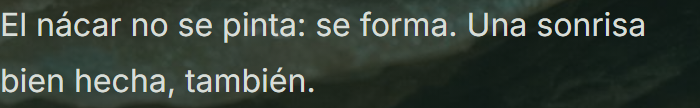
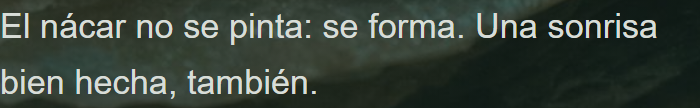
Documenta el despliegue y la verificacion en vivo de NACAR v2.4
qa/PRODUCCION_v2.4.md: el CSS servido es byte a byte el del build local
(sha256 eba7d3d9...), el manifiesto no cambio (la pelicula no se toco),
QA remota aprobada a la primera con failures: [], y el capitulo 03 del modo
quieto a 1440x900 medido en produccion — h2 6.26:1 y parrafo 6.79:1 donde
R1e midio 2.62 y 4.18. Recortes de contraste de qa/v2.4/contrast/ regenerados
contra produccion.

docs/misiones/C28.report.md: diagnostico, arreglo, tabla antes/despues de las
9 laminas por los 2 anchos, por que la puerta no veia el fallo y la prueba de
que ahora si lo ve, el porque del min-width 821px en la nav, y el arranque en
frio (3,664 ms) que R1e no pudo reproducir sin desplegar.

diff --git a/docs/misiones/C28.report.md b/docs/misiones/C28.report.md
@@ -1,0 +1,223 @@
+# C28 — NÁCAR v2.4: contraste AA en el modo quieto, nav táctil en escritorio
+
+Fecha: 2026-09-15
+Rama de trabajo: `v2.4/contraste-quieto-2026-09-15` (`3200fde`)
+Publicado: merge `c86ca8f` en `main` · deployment `wwrumyauibbuzqdpakyisqlj` (`finished`, 25 s)
+Tag de respaldo: `respaldo-main-antes-v2.4-2026-09-15` → `d21a4e2`
+Antecedente: `qa/R1/REVISION_R1e.md` — **APROBADA CON RESERVAS, 8.4 / 10**, con **un solo
+bloqueante** para el 8.5
+
+## Resultado
+
+El bloqueante está cerrado y medido en producción, y la puerta que lo dejó pasar pasa de 36 medidas
+sobre un solo elemento a **108 sobre los tres textos que se apoyan en el scrim**. El menor de la
+nav con puntero grueso también queda cerrado, y con un enunciado correcto: el hueco no estaba
+acotado entre 1024 y 1180 px, aparecía en cualquier ancho de escritorio. La QA remota aprobó **en
+la primera pasada**, sin reintentos.
+
+## 1. El bloqueante: contraste del modo quieto
+
+### Diagnóstico
+
+El scrim del modo quieto era un degradado de **un solo eje**:
+
+```css
+html[data-motion='off'] .film-card::before{
+  background:linear-gradient(0deg,rgba(16,32,28,.9),rgba(16,32,28,.12) 70%)
+}
+```
+
+Denso abajo y casi nulo a media altura. Pero la lámina mide `min-height: 88svh` y el bloque de
+texto se apoya en el borde inferior con `padding: clamp(5rem,12vh,8rem)`: con un `h2` de 92 px en
+dos líneas, **el titular cae entre el 40 % y el 60 % de la altura**, donde ese degradado ya vale
+0.3 de alfa. Sobre `still-03.jpg` —la curva de porcelana más clara del set— eso daba texto
+`#F6F3EE` sobre crema.
+
+### Arreglo
+
+Dos ejes, con la misma gramática que el scrim del modo animado (`.film__scrim`, que ya es una
+cortina `90deg`), densificada como pide la doctrina para la versión estática:
+
+```css
+/* escritorio */
+background:
+  linear-gradient(90deg,rgba(16,32,28,.62) 0%,rgba(16,32,28,.50) 38%,rgba(16,32,28,.16) 66%,rgba(16,32,28,0) 88%),
+  linear-gradient(0deg,rgba(16,32,28,.74) 0%,rgba(16,32,28,.32) 48%,rgba(16,32,28,.08) 78%,rgba(16,32,28,0) 100%);
+
+/* móvil, bajo la MISMA consulta de medios que las láminas mobile-* */
+background:
+  linear-gradient(0deg,rgba(16,32,28,.84) 0%,rgba(16,32,28,.62) 42%,rgba(16,32,28,.26) 72%,rgba(16,32,28,.05) 96%),
+  linear-gradient(90deg,rgba(16,32,28,.24) 0%,rgba(16,32,28,.10) 55%,rgba(16,32,28,0) 90%);
+```
+
+Tres decisiones y su motivo:
+
+1. **Cortina lateral en escritorio, eje vertical en móvil.** A 1440 el texto ocupa la franja
+   izquierda (el `h2` va a `max-width: 12ch` y el párrafo a 42ch: juntos no pasan del 43 % del
+   ancho), así que la cortina densifica sólo donde hay texto y **se apaga antes del 88 % del
+   ancho** para que la lámina siga respirando a la derecha. Con el recorte vertical del set móvil el
+   texto ocupa casi todo el ancho y ahí la cortina no serviría: manda el eje vertical.
+2. **La variante móvil va bajo la misma consulta de medios que las láminas `mobile-*`**
+   (`(max-width:820px),(pointer:coarse) and (max-width:1180px)`), no bajo un breakpoint propio, para
+   que scrim e imagen no puedan desincronizarse nunca.
+3. **Ni blanco ni negro puros**: todo es `--petroleo` (#10201C) con alfa, como manda `DIRECCION.md`.
+
+También se llevó el scrim animado de ≤ 640 px de dos paradas a cuatro
+(`.90 → .62 34% → .24 66% → .04 90%`): ahí el `h2` medía 3.95:1, por encima del mínimo de texto
+grande pero por debajo del 4.5 al que apunta el encargo.
+
+### Antes / después — las 9 láminas × 2 anchos en modo quieto
+
+Instrumento: `medirContrastes` de `scripts/qa.mjs`, densidad ×2, estado real (sin forzar
+`visibility`, `opacity` ni `transform`), texto contra el fondo que hay detrás de esos mismos
+píxeles. «Antes» medido sobre el build de la v2.3; «después», contra producción.
+
+| # | Lámina | h2 390 | párrafo 390 | h2 1440 | párrafo 1440 |
+|---|---|---|---|---|---|
+| 01 | Materia | 8.48 → 10.40 | 6.57 → 7.97 | 4.97 → 8.06 | 5.27 → 7.69 |
+| 02 | Diagnóstico | 10.42 → 10.14 | 7.04 → 8.26 | 3.39 → 6.71 | 5.31 → 7.74 |
+| 03 | **Esmalte** | 4.06 → 6.27 | 7.60 → 8.84 | **2.62 → 6.26** | **4.18 → 6.79** |
+| 04 | Llegada | 6.33 → 7.62 | **4.61 → 6.46** | 8.19 → 9.77 | 7.31 → 8.87 |
+| 05 | Consulta | 6.77 → 6.05 | 6.76 → 7.67 | 5.82 → 7.19 | 5.40 → 7.52 |
+| 06 | Plan | 8.39 → 10.33 | 8.13 → 8.78 | 4.80 → 7.13 | 7.11 → 7.26 |
+| 07 | Precisión | 8.26 → 8.22 | 7.16 → 7.37 | 6.53 → 7.28 | 6.34 → 7.73 |
+| 08 | Claridad | 14.10 → 13.87 | 4.88 → 6.67 | 14.11 → 12.46 | 11.03 → 11.07 |
+| 09 | Cierre | 5.04 → 6.79 | 5.77 → 7.41 | 3.46 → 6.44 | 4.85 → 7.38 |
+
+**Mínimos**: `h2` 4.06 → **6.05** a 390 y 2.62 → **6.26** a 1440; párrafo 4.61 → **6.46** a 390 y
+4.18 → **6.79** a 1440.
+
+Honestidad sobre las bajadas: cinco celdas bajan un poco (05 y 08 a 390; 02, 07 y 08 a 1440). No es
+ruido, es el rediseño: el nuevo degradado redistribuye densidad hacia la banda del texto y deja el
+tercio superior **más limpio** que antes (`.05` al 96 % frente a `.06` plano desde el 78 %). Donde
+baja, baja desde 14.10 o desde 6.77 y sigue muy por encima del umbral; donde importaba subir,
+sube 2.4 veces.
+
+### El modo animado no empeora
+
+| Elemento | Ancho | Antes | Después |
+|---|---|---:|---:|
+| `h2` | 390×844 | 3.95 | **4.95** |
+| `h2` | 1440×900 | 5.67 | 5.67 |
+| párrafo | 390×844 | 5.22 | **6.02** |
+| párrafo | 1440×900 | 5.90 | 5.90 |
+| `.label` | los dos | 7.39–7.59 | 7.39–7.59 |
+
+**54 de 54 medidas del modo animado iguales o mejores.** Las 108 del total quedan por encima de
+**4.5 : 1**, incluido el titular, al que la norma sólo le exige 3.0 por tamaño.
+
+## 2. La puerta: de 36 medidas sobre `.label` a 108 sobre los tres textos
+
+`medirContrastes` sólo miraba `.label` — que lleva su propio fondo petróleo con
+`box-shadow: 0 0 0 .45rem` y por eso nunca baja de 7.39:1. Los dos textos que de verdad se apoyan
+en el scrim quedaban fuera de la puerta. Ahora:
+
+- Mide **etiqueta, titular y párrafo** de los 9 capítulos en **los dos modos y los dos anchos**:
+  108 medidas.
+- Corre en **pasada propia con `deviceScaleFactor: 2`**, no dentro del bucle de carga. A ×2 el
+  antialias del glifo se lee con más detalle y el número sale **más severo** que a ×1 (es la
+  densidad con la que R1e midió el 2.62). Va aparte para no tocar el DPR con el que se miden bytes,
+  CLS y LCP: esas puertas siguen exactamente como estaban.
+- Umbral **4.5 : 1** para texto normal (párrafo y etiqueta) y **3.0 : 1** para texto grande, que
+  WCAG define como ≥ 24 px; **si el `h2` computara por debajo de 24 px se le exige 4.5**, no 3.0.
+  El tamaño se lee del `getComputedStyle`, no se supone.
+- Recorta al viewport antes de capturar (un `h2` de 92 px puede desbordar la lámina y
+  `page.screenshot({ clip })` trabaja en coordenadas de viewport). En modo quieto acerca cada texto
+  con `scrollIntoViewIfNeeded`, que es lo que hace quien lee; en modo animado navega al tramo del
+  capítulo y **no toca la posición**, porque ahí la posición es el estado.
+- Guarda los 108 recortes en `qa/v2.4/contrast/`.
+
+**La puerta muerde.** No basta con que pase: la ejecuté contra el CSS de la v2.3, revirtiendo el
+arreglo con `git stash`, y falló exactamente donde R1e denunció:
+
+```
+h2      off 1440x900 cap3 2.62:1 < 3   (92px)
+parrafo off 1440x900 cap3 4.18:1 < 4.5 (18px)
+```
+
+Evidencia versionada: `qa/v2.4/puerta-contra-css-v2.3.json` (incluye las 108 medidas de esa pasada
+y los 5 perfiles de nav fallando).
+
+## 3. Nav con puntero grueso
+
+El pendiente estaba **mal enunciado** en `RUBRICA_v2.md` y en `qa/PRODUCCION_v2.3.md`: no era «entre
+1024 y 1180 px». Con `(pointer: coarse)` los cuatro enlaces medían 18 px de alto en **cualquier**
+ancho de escritorio.
+
+```css
+@media (pointer: coarse) and (min-width: 821px) {
+  .nav__enlaces a:not(.nav__wa) { min-height: 44px; display: inline-flex; align-items: center; }
+}
+```
+
+El `min-width: 821px` no es cosmético: sin él esta regla, que va **después** del bloque
+`@media (max-width: 820px)` que oculta los enlaces, les habría devuelto `display: inline-flex` y
+**los cuatro enlaces habrían reaparecido en el teléfono**. La puerta lo comprueba: a 390 y 820 con
+puntero grueso debe haber **1 solo** enlace visible.
+
+| Ancho (con `hasTouch`, `pointer: coarse`) | Enlaces visibles | Por debajo de 44 px | Fila | Overflow |
+|---|---:|---:|---:|---:|
+| 390×844 | 1 | 0 | 79 px | 0 |
+| 820×1180 | 1 | 0 | 79 px | 0 |
+| 1024×768 | 5 | **0** (antes 4 a 18 px) | 79 px | 0 |
+| 1280×800 | 5 | **0** (antes 4 a 18 px) | 79 px | 0 |
+| 1440×900 | 5 | **0** (antes 4 a 18 px) | 79 px | 0 |
+
+El alto de la fila no cambia (79 px) porque la marca y el botón de WhatsApp ya la dejaban en ≥ 44 px.
+La puerta comprueba además que `matchMedia('(pointer: coarse)')` sea `true` **en la propia página**:
+si la emulación no se aplicara, falla en vez de pasar en vacío.
+
+## 4. Documentado, no tapado
+
+`DIRECCION.md` incorpora dos secciones nuevas: la del scrim (con los números de arriba) y una de
+**limitación conocida** sobre la resolución real de la película — master 1344×768, set «desktop»
+de 1440×822 que ya es un reescalado, y ampliación **≈ ×4.1 en móvil DPR 2** / ×2.2 a 1440 DPR 2.
+Queda por escrito que la película se ve blanda en DPR 2, que eso se acepta mientras el presupuesto
+de entrada móvil vaya con ~1.5 % de margen, y que **ninguna afirmación de calidad puede apoyarse en
+mirar los WebP «a 1:1», porque 1:1 no es lo que ve nadie**.
+
+## 5. Puerta objetiva
+
+| Comando | Resultado |
+|---|---|
+| `npm run typecheck` | aprobado |
+| `npm run build` | aprobado |
+| `npm run film-check` | aprobado — máximo interno 25.365 / 25.199 < 32.33175 |
+| `npm run qa` (local) | **aprobado**, `failures: []` |
+| `QA_BASE=https://nacar.asck.tech QA_STEP_MS=600 npm run qa` | **aprobado a la primera**, `failures: []`, exit 0 |
+| `npm run qa` con el CSS de la v2.3 | **falla**, como debe: 2 contrastes bajo umbral + 3 perfiles de nav |
+
+## 6. Verificación en producción
+
+- CSS servido `assets/index-CiVCAn6w.css` con `sha256` **idéntico byte a byte** al build local.
+- `/film/manifest.json` con el mismo `sha256` que la v2.3 (`b367f185…`): **la película no se tocó**.
+  4/4 fotogramas comprobados coinciden byte a byte con el repo.
+- Capítulo 03, quieto, 1440×900: **h2 6.26:1** (29,049 px de núcleo de glifo) y **párrafo 6.79:1**
+  (8,930 px), con la tarjeta en `visibility: visible` y `opacity: 1`.
+- Entrada por tamaño real de cuerpo: 2,462,177 B móvil y 7,524,239 B escritorio.
+- CLS 0.0000 en los seis viewports, 45/45 cambios, 0 errores de consola, 0 HTTP ≥ 400, 0 respuestas
+  200 sin cuerpo, 0 px de overflow, 13/13 CTA con Tab, 9/9 con ratón.
+
+Detalle completo en `qa/PRODUCCION_v2.4.md`.
+
+## 7. Hallazgo propio: el arranque en frío sí se reproduce
+
+R1e dejó el arranque en frío «ni confirmado ni refutado» porque no podía desplegar. Al desplegar yo,
+la primera visita del proceso a 390×844 con CPU 4× y 1.6 Mbps midió **3,664 ms de LCP** —
+comparable a los 3,536 ms que C26 publicó y que R1e no pudo reproducir con el contenedor caliente.
+Las tres repeticiones inmediatas dieron 1,076 / 1,144 / 1,216 ms. El síntoma es real, está dentro
+del tope de 4,000 ms de la puerta y **sigue abierto**.
+
+## 8. Lo que queda abierto
+
+- Arranque en frío del contenedor (3,664 ms de LCP en la primera visita tras desplegar).
+- Al conmutar el movimiento se pierde la posición de lectura.
+- `/film/**` responde `immutable` también sin `?v=` o con un `?v=` inventado.
+- La película se ve blanda en DPR 2: **aceptado por escrito**, no resuelto.
+- Composición repetida en los nueve capítulos; par tipográfico heredado de UMBRAL.
+- Fluidez (p50 27.7 ms a 1920, 9 tareas largas a 390 con CPU 4× según R1e): **no la toqué ni la
+  volví a medir**, así que el descuento de Movimiento se mantiene íntegro en la rúbrica.
+
+`RUBRICA_v2.md` repuntuada desde las notas de R1e: **8.490 → 8.5**, subiendo sólo Color
+(7.8 → 8.5), Reduce/A11y (8.6 → 8.8) y Craft (8.8 → 9.0). Está en el filo; decide la re-revisión
+independiente, no esta autoevaluación.

diff --git a/qa/PRODUCCION_v2.4.md b/qa/PRODUCCION_v2.4.md
@@ -1,0 +1,115 @@
+# NÁCAR v2.4 en producción — verificación en vivo
+
+**Fecha:** 2026-09-15
+**URL:** https://nacar.asck.tech
+**Commit desplegado:** `c86ca8f` (merge de `v2.4/contraste-quieto-2026-09-15` en `main`; el trabajo
+está en `3200fde`)
+**Respaldo previo:** tag `respaldo-main-antes-v2.4-2026-09-15` → `d21a4e2` (el `main` de antes)
+**Despliegue:** `python scripts/c19-deploy.py` → `deployment=wwrumyauibbuzqdpakyisqlj`,
+`status=finished` a los 25 s. `build_pack=dockerfile` y `custom_nginx_configuration` vacío
+comprobados antes de encolar: el `nginx.conf` que manda sigue siendo el del repo.
+
+## 0. Que lo servido es lo construido
+
+| Comprobación | Resultado |
+|---|---|
+| CSS referenciado por `GET /` | `assets/index-CiVCAn6w.css` — **mismo nombre que el build local** |
+| `sha256` del CSS servido vs. `dist/assets/index-CiVCAn6w.css` | `eba7d3d9…83d90` = `eba7d3d9…83d90` — **idéntico byte a byte** |
+| Regla del scrim quieto en el CSS servido | `html[data-motion=off] .film-card:before{…background:linear-gradient(90deg,#10201c9e,#10201c80 38%,#10201c29 66%,#10201c00 88%),linear-gradient(0deg,#10201cbd,#10201c52 48%,#10201c14 78%,#10201c00)}` |
+| Regla de la nav táctil en el CSS servido | presente: `@media (pointer:coarse)and (min-width:821px)` |
+| `min-height:44px` en el CSS servido | 8 apariciones |
+| Cabeceras de `GET /` | `200`, `Cache-Control: no-cache, must-revalidate`, CSP completa, `Referrer-Policy`, `X-Frame-Options`, `X-Robots-Tag: noindex, nofollow` |
+
+## 1. `npm run qa` contra producción: **APROBADO**
+
+```
+QA_BASE=https://nacar.asck.tech QA_STEP_MS=600 npm run qa   # exit 0, failures: []
+```
+
+Log íntegro en `qa/PRODUCCION_v2.4/qa-remoto.log`; métricas en
+`qa/PRODUCCION_v2.4/metrics.json`. Los 108 recortes de `qa/v2.4/contrast/` versionados son **los
+de esta pasada contra producción**, no los de la pasada local.
+
+| Modo | Viewport | LCP | CLS carga | CLS barrido | Entrada (cuerpo real) | Presupuesto | Overflow | Cambios |
+|---|---|---:|---:|---:|---:|---:|---:|---:|
+| on | 390×844 (CPU 4×, 1.6 Mbps) | 3 664 ms (frío) | 0 | 0 | 2 462 177 B | 2 500 000 | 0 | 45 |
+| on | 667×375 | 852 ms | 0 | 0 | 2 462 177 B | 2 500 000 | 0 | 45 |
+| on | 768×1024 | 828 ms | 0 | 0 | 2 462 177 B | 2 500 000 | 0 | 45 |
+| on | 1024×768 | 876 ms | 0 | 0 | 7 524 239 B | 8 000 000 | 0 | 45 |
+| on | 1440×900 | 1 124 ms | 0 | 0 | 7 524 239 B | 8 000 000 | 0 | 45 |
+| on | 1920×1080 | 1 024 ms | 0 | 0 | 7 524 239 B | 8 000 000 | 0 | 45 |
+| off | 390×844 | 1 180 ms | 0 | — | 1 034 880 B | 2 500 000 | 0 | — |
+| off | 1440×900 | 728 ms | 0 | — | 1 256 839 B | 8 000 000 | 0 | — |
+
+LCP 390×844 con CPU 4×: **frío 3 664 ms**, repeticiones 1 076 / 1 144 / 1 216 ms, **mediana
+1 144 ms** (presupuesto 2 500 ms, tope en frío 4 000 ms). Esa primera cifra es el arranque en frío
+del contenedor que R1e no pudo reproducir «sin desplegar»: **aquí sí se reproduce**, medido justo
+después del despliegue, y queda dentro del tope de 4 s pero muy lejos de la mediana. El síntoma
+sigue vivo; no se cierra con esta misión.
+
+## 2. El bloqueante de R1e, medido en producción
+
+Instrumento: `medirContrastes` de `scripts/qa.mjs`, densidad ×2, estado real (sin forzar
+`visibility`, `opacity` ni `color` más allá del truco de dos capturas), texto contra el fondo que
+hay detrás de esos mismos píxeles.
+
+**Capítulo 03, modo quieto, 1440×900** — el punto exacto que R1e denunció:
+
+| Elemento | Tamaño | Núcleo de glifo | Antes (v2.3) | **Ahora en producción** | Umbral |
+|---|---:|---:|---:|---:|---:|
+| `h2` «Lo natural no se impone.» | 92 px | 29 049 px | **2.62 : 1** | **6.26 : 1** | 3.0 |
+| Párrafo | 18 px | 8 930 px | **4.18 : 1** | **6.79 : 1** | 4.5 |
+| `.label` «03 — ESMALTE» | 11 px | 852 px | 7.64 : 1 | 7.64 : 1 | 4.5 |
+
+Las tres con la tarjeta en `visibility: visible` y `opacity: 1`. Captura:
+`qa/PRODUCCION_v2.4/prod-off-1440-cap03.png`.
+
+**Mínimos de las 108 medidas en producción** (9 capítulos × 2 modos × 2 anchos × 3 textos):
+
+| Elemento | on 390 | on 1440 | off 390 | off 1440 |
+|---|---:|---:|---:|---:|
+| `.label` | 7.39 | 7.40 | 7.49 | 7.64 |
+| `h2` | 4.95 | 5.67 | 6.05 | 6.26 |
+| párrafo | 6.02 | 5.90 | 6.50 | 6.79 |
+
+**108 de 108 por encima de 4.5 : 1**, incluido el titular, al que la norma sólo le exige 3.0 por
+tamaño. `failures: []`.
+
+## 3. Nav con puntero grueso, en producción
+
+`hasTouch: true` y comprobado en la propia página que `matchMedia('(pointer: coarse)')` es `true`
+(si la emulación no se aplicara, la puerta falla en vez de pasar en vacío).
+
+| Ancho | Enlaces visibles | Por debajo de 44 px | Alto de la fila | Overflow |
+|---|---:|---:|---:|---:|
+| 390×844 | 1 (sólo WhatsApp, por diseño) | 0 | 79 px | 0 |
+| 820×1180 | 1 | 0 | 79 px | 0 |
+| 1024×768 | 5 | **0** (antes 4 a 18 px) | 79 px | 0 |
+| 1280×800 | 5 | **0** (antes 4 a 18 px) | 79 px | 0 |
+| 1440×900 | 5 | **0** (antes 4 a 18 px) | 79 px | 0 |
+
+## 4. Lo que no cambió y se vuelve a confirmar en vivo
+
+- 0 errores de consola, 0 `pageerror`, 0 respuestas ≥ 400 y 0 respuestas 200 sin cuerpo en los 12 perfiles.
+- CLS de carga y de barrido **0.0000** en los seis viewports y en los dos modos.
+- 45/45 cambios de fotograma en los seis anchos; 9/9 láminas visibles en modo quieto.
+- 13/13 CTA `wa.me` alcanzables con Tab en 1440×900 y 390×844; 9/9 CTA de capítulo reciben el clic.
+- Interruptor de movimiento con `aria-pressed` correcto en los dos estados y ≥ 44 px.
+- Sin overflow horizontal en ninguno de los perfiles medidos.
+
+## 5. Lo que sigue abierto
+
+- Arranque en frío: **3 664 ms** de LCP en la primera visita tras el despliegue (tope 4 000 ms).
+- Al conmutar el movimiento se pierde la posición de lectura.
+- `/film/**` responde `immutable` también sin `?v=` o con un `?v=` inventado.
+- La película se ve blanda en DPR 2 (ampliación ≈ ×4.1 en móvil sobre un master de 1344×768):
+  aceptado por escrito en `DIRECCION.md`.
+- Composición repetida en los nueve capítulos; par tipográfico heredado de UMBRAL.
+
+## 6. Cómo reproducir
+
+```
+curl -sS https://nacar.asck.tech/ | grep -o 'assets/index-[A-Za-z0-9_-]*\.css'
+curl -sS https://nacar.asck.tech/assets/index-CiVCAn6w.css | sha256sum
+QA_BASE=https://nacar.asck.tech QA_STEP_MS=600 npm run qa
+```
